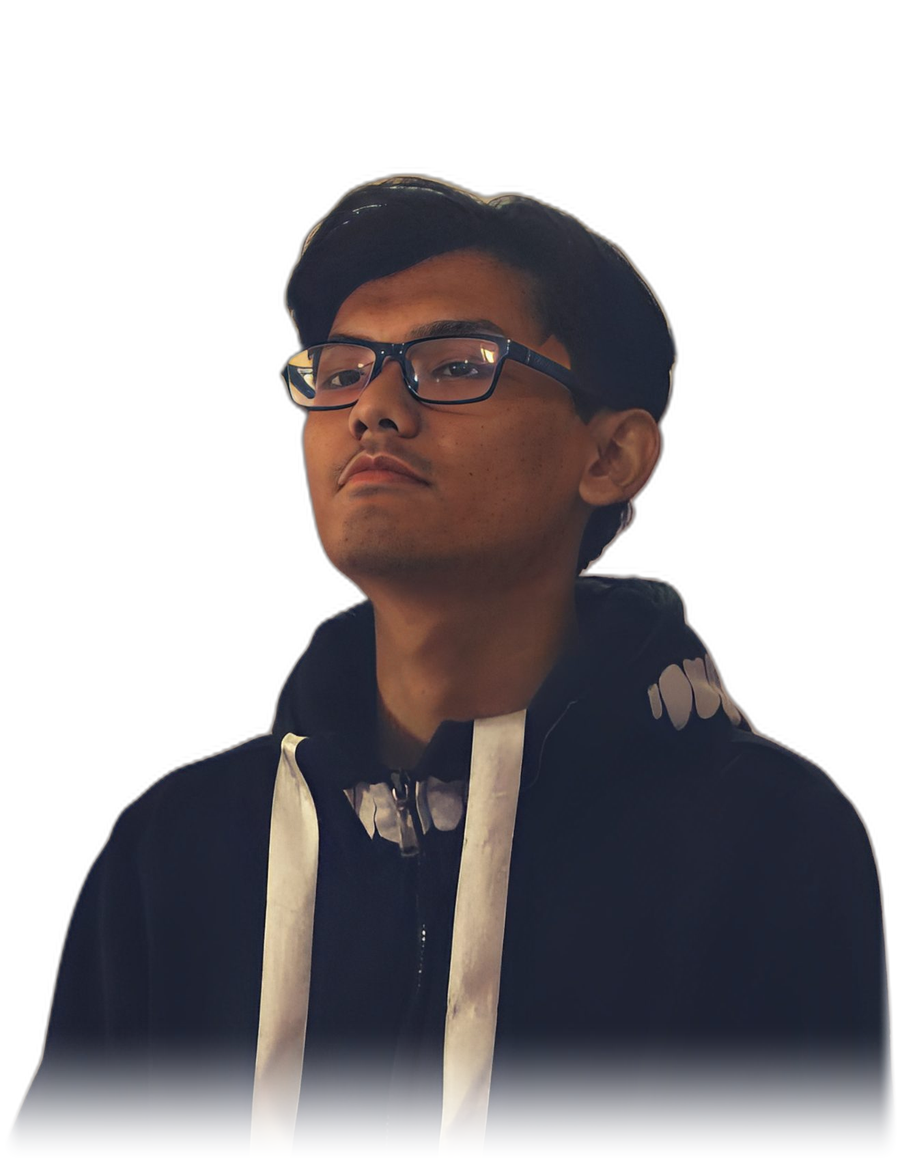
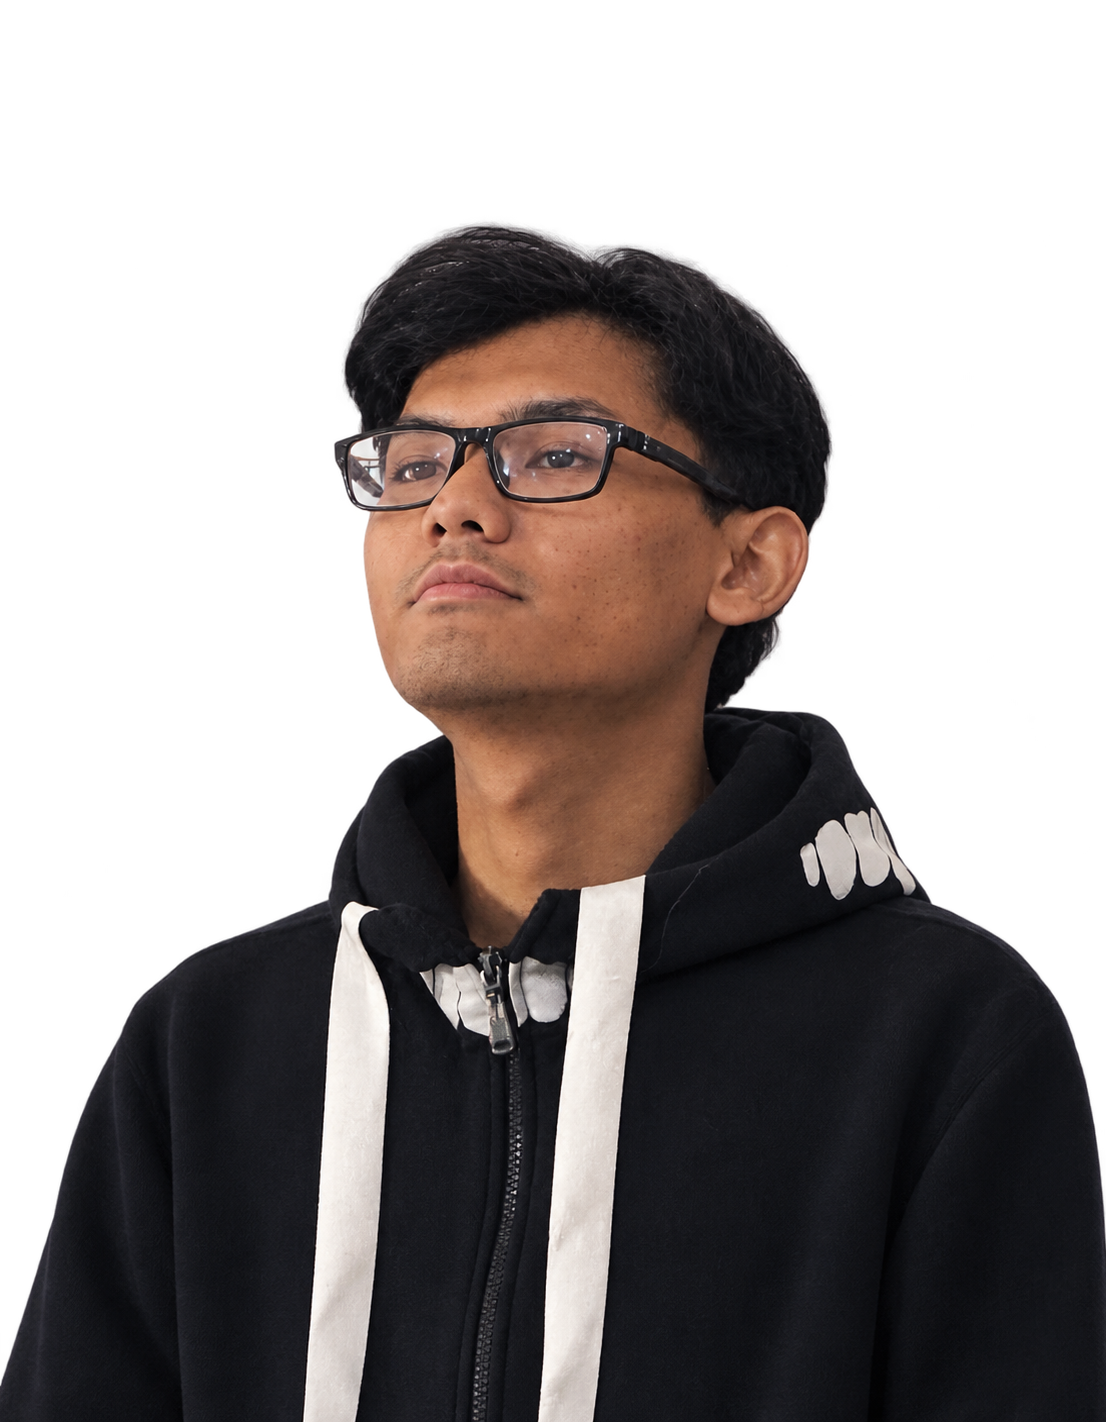
feat: lightweight WebP profile with PNG fallback, sync OG dimensions
- profile.png 1106x1422 (new cutout), profile.webp 92KB via <picture> + display:block wrapper

- OG width/height synced to 1106/1422

- copy: spanning/covers, My testing toolkit, functioned correctly, Built Cypress scripts, integrated workspace

diff --git a/index.html b/index.html
@@ -16,8 +16,8 @@
 <link rel="canonical" href="https://renpaijo.github.io/" />
 <meta property="og:url" content="https://renpaijo.github.io/" />
 <meta property="og:image" content="https://renpaijo.github.io/assets/img/profile.png" />
-<meta property="og:image:width" content="900" />
-<meta property="og:image:height" content="1164" />
+<meta property="og:image:width" content="1106" />
+<meta property="og:image:height" content="1422" />
 <meta property="og:image:type" content="image/png" />
 <meta property="og:image:alt" content="Portrait of Aldan Maulana Fajri" />
 <meta name="twitter:card" content="summary_large_image" />
@@ -198,7 +198,7 @@
     <div class="hero-visual reveal" style="--d:.2s">
       <div class="portrait-card">
         <div class="portrait-frame">
-          <img src="assets/img/profile.png" alt="Portrait of Aldan Maulana Fajri wearing glasses and a dark hoodie" width="900" height="1164" fetchpriority="high" />
+          <picture><source srcset="assets/img/profile.webp" type="image/webp" /><img src="assets/img/profile.png" alt="Portrait of Aldan Maulana Fajri wearing glasses and a dark hoodie" width="1106" height="1422" fetchpriority="high" /></picture>
         </div>
         <div class="portrait-glow" aria-hidden="true"></div>
 
@@ -286,8 +286,8 @@
         </p>
         <p>
           Across roles at <b>VNT Network</b>, <b>Visi Prima Nusantara</b> and <b>Sekawan Media</b>,
-          I've worked across both <b>manual and automated testing</b> for web and API
-          platforms. My technical stack spans <b>Java, JavaScript and PHP</b>, where I use frameworks
+          my work has spanned both <b>manual and automated testing</b> for web and API
+          platforms. My technical stack covers <b>Java, JavaScript and PHP</b>, where I use frameworks
           such as <b>Selenium, REST-Assured and Cypress</b> to validate complex systems.
         </p>
         <p>
@@ -339,7 +339,7 @@
   <div class="container">
     <div class="section-head reveal">
       <p class="eyebrow"><span>02</span> Toolkit</p>
-      <h2>The stack I test <span class="grad-text">with</span></h2>
+      <h2>My testing <span class="grad-text">toolkit</span></h2>
     </div>
 
     <div class="skills-grid">
@@ -440,9 +440,9 @@
             </div>
           </div>
           <ul class="tl-points" role="list">
-            <li>Tested web and mobile devices to ensure their configuration worked efficiently.</li>
+            <li>Tested web and mobile devices to ensure their configuration functioned correctly.</li>
             <li>Provided actionable feedback to development teams on technical, troubleshooting and operational issues.</li>
-            <li>Partnered with product managers and development teams to test and optimize mobile products.</li>
+            <li>Partnered with product managers and development teams to test and improve mobile product quality.</li>
           </ul>
         </div>
       </li>
@@ -461,8 +461,8 @@
             </div>
           </div>
           <ul class="tl-points" role="list">
-            <li>Created automation testing scripts in <b>Cypress</b>.</li>
-            <li>Created and reviewed test cases for both manual and automation testing.</li>
+            <li>Built <b>Cypress</b> automation scripts for key user flows.</li>
+            <li>Designed and reviewed test cases for both manual and automated testing.</li>
           </ul>
         </div>
       </li>
@@ -517,7 +517,7 @@
         </div>
         <h3>Portal Kerja HRMS</h3>
         <p class="project-desc">
-          A digital HR platform giving companies one integrated place to manage human resources
+          A digital HR platform giving companies one integrated workspace to manage human resources
           efficiently.
         </p>
         <dl class="project-meta">
@@ -528,7 +528,7 @@
         <p class="pm-head">Contribution</p>
         <ul class="project-points" role="list">
           <li>Validated <b>employee data, attendance and leave management</b> modules for data integrity.</li>
-          <li>Focused testing on data validation and HR workflows surfaced critical issues.</li>
+          <li>My focused testing on data validation and HR workflows surfaced critical issues.</li>
           <li>Reported findings that helped the team protect sensitive employee data and improve HR workflows.</li>
         </ul>
         <div class="project-actions">
@@ -652,7 +652,7 @@
     </div>
     <p class="eyebrow"><span>QA Case Study</span> HR Platform · Manual QA</p>
     <h3 id="case-hrms-title">Portal Kerja HRMS</h3>
-    <p class="case-lede">A digital HR platform giving companies one integrated place to manage human resources efficiently. QA focus: employee data, attendance and leave management modules.</p>
+    <p class="case-lede">A digital HR platform giving companies one integrated workspace to manage human resources efficiently. QA focus: employee data, attendance and leave management modules.</p>
     <dl class="project-meta case-meta">
       <div class="pm-row"><dt>Role</dt><dd>QA Engineer — Manual QA</dd></div>
       <div class="pm-row"><dt>Testing scope</dt><dd>Functional testing · Data validation · HR workflow testing</dd></div>

diff --git a/assets/css/styles.css b/assets/css/styles.css
@@ -425,6 +425,7 @@ b, strong { font-weight: 700; color: var(--text); }
 /* Feather is baked into the PNG (140px bottom, 22px sides/top) — no CSS mask,
    since masks paint rectangular fades that read as a border when drop-shadows
    intensify on hover. */
+.portrait-frame picture { display: block; }
 .portrait-frame img {
   display: block;
   width: 112%; max-width: none; margin-left: -6%; margin-bottom: -26px;
